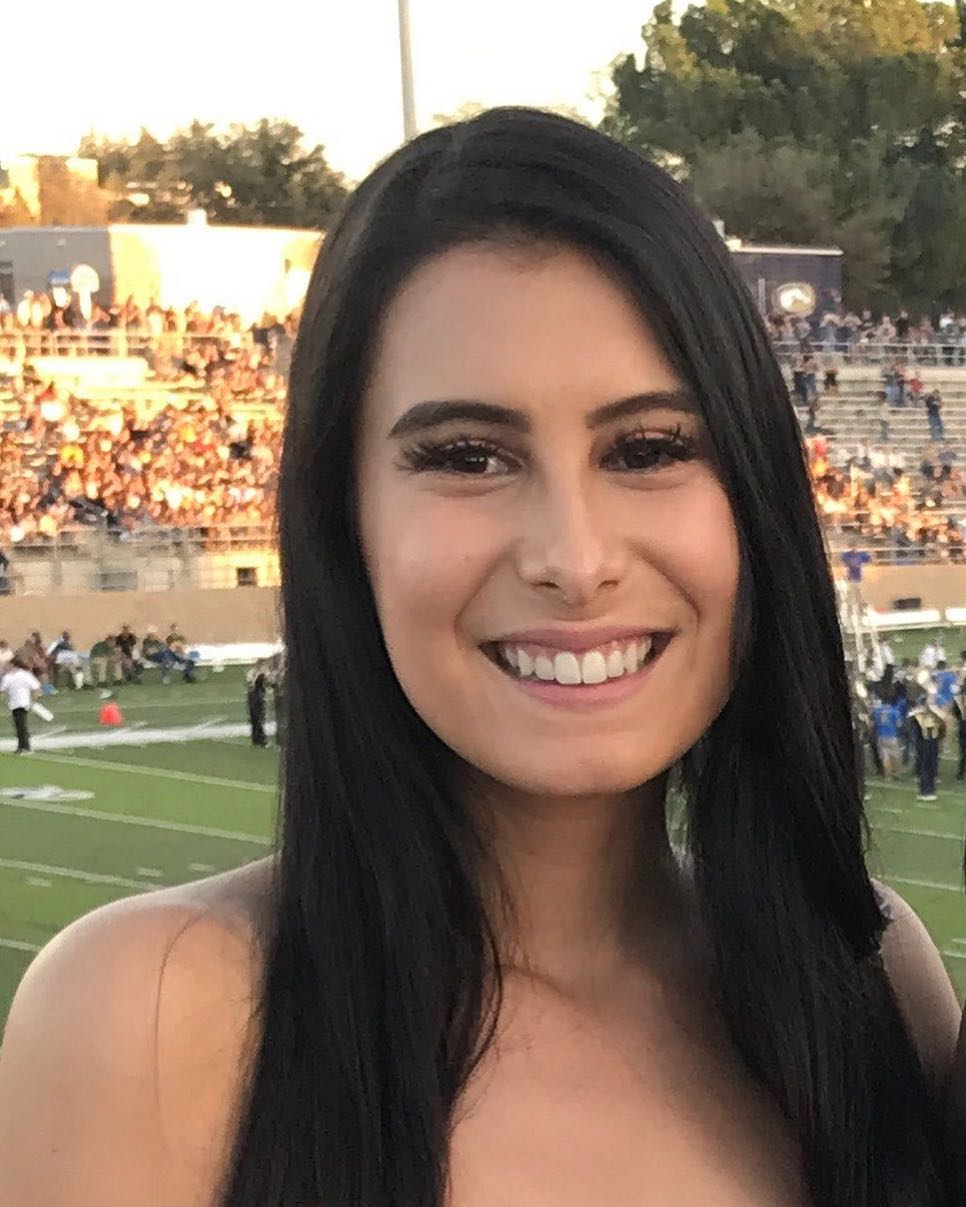
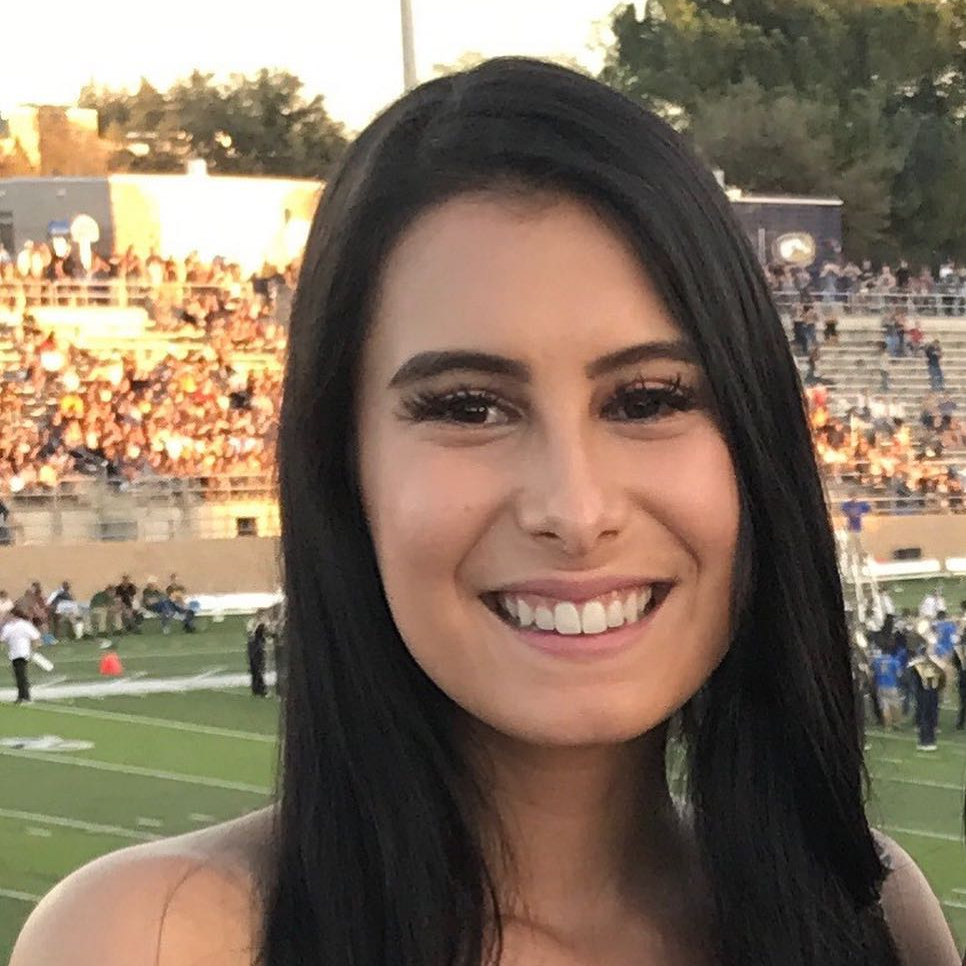
Updated Membership page

diff --git a/membership.html b/membership.html
@@ -22,9 +22,9 @@
         <a href="events.html">EVENTS</a>
     </div>
     
-    <div id="imageback">
+    <div id="imageback2">
     
-        <div id="home">
+        <div id="home2">
             
             <div id="navbar2">
                 <div id="frontTitle2">
@@ -82,7 +82,7 @@
                 </div>
                 
                 <div class="member">
-                    <div class="memberimgbox">
+                    <div class="memberimgbox"><img src="images/board/image_from_ios-1.jpg">
                     </div>
                     <div class="memberinfo">
                         <p class="boardName">Shraddha Agrawal</p>
@@ -114,7 +114,7 @@
                     <div class="memberinfo">
                         <p class="boardName">Rutuja Oza</p>
                         <p>Events Committee</p>
-                        <a href="https://www.linkedin.com/in/rutuja-oza-668850162/"><p>Connect on LinkedIn</p></a>
+                        <a href="https://www.linkedin.com/in/rutuja-oza-668850162/"><p>LinkedIn</p></a>
                     </div>
                 </div>
                 
@@ -151,7 +151,7 @@
                     <div class="memberinfo">
                         <p class="boardName">Ynna Lecitona</p>
                         <p>Marketing Director</p>
-                        <a href="https://www.linkedin.com/in/ynna-lecitona-a288b1170/"><p>Connect on LinkedIn</p></a>
+                        <a href="https://www.linkedin.com/in/ynna-lecitona-a288b1170/"><p>LinkedIn</p></a>
                     </div>
                 </div>
                 
@@ -170,7 +170,7 @@
                     <div class="memberinfo">
                         <p class="boardName">Oorjit Chib</p>
                         <p>Director of Membership</p>
-                        <a href="https://www.linkedin.com/in/oorjit-chib-b779b5161/"><p>Connect on LinkedIn</p></a>
+                        <a href="https://www.linkedin.com/in/oorjit-chib-b779b5161/"><p>LinkedIn</p></a>
                     </div>
                 </div>            
                
@@ -191,7 +191,7 @@
                     <div class="memberinfo">
                         <p class="boardName">Rachel Hanna</p>
                         <p>Webmaster</p>
-                        <a href="https://www.linkedin.com/in/rachel-joy-hanna/"><p>Connect on LinkedIn</p></a>
+                        <a href="https://www.linkedin.com/in/rachel-joy-hanna/"><p>LinkedIn</p></a>
                     </div>
                 </div>
                 

diff --git a/CSS/style.css b/CSS/style.css
@@ -19,7 +19,8 @@ h1, p, a {
 }
 
 .iconsBox, .memberimgbox{
-    flex: 1 1 20%;
+    flex: 1 0 40%;
+    max-width: 40%;
     margin: 5px;
 }
 
@@ -85,6 +86,14 @@ top {
     align-items: center;
     flex: 1 0 auto;
 }
+
+#imageback2 {
+    background-color: #e2d1d0;
+    width: 100%;
+    display: flex;
+    flex-direction: column;
+    align-items: center;
+    flex: 1 0 auto;}
 
 #home {
     background-color: rgb(255,255,255,.8);
@@ -231,6 +240,14 @@ top {
 /*    background-color: rgb(0,0,0,.5);*/
 }
 
+.member:hover {
+    background-color: #e6f2ff;
+}
+
+.member {
+    border: 1px solid grey;
+}
+
 #navbar2 {
     display: none;
 }
@@ -243,8 +260,16 @@ top {
     display: block;
 }
 
+#home #board p {
+    padding-bottom: 0px;
+    margin-bottom: 0px;
+    color: grey;
+    text-align: left;
+}
 
-
+#home #board .boardName {
+    color: black
+}
 
 @media screen and (min-width: 600px) {
     #frontTitle, #frontTitle2, #frontTitle3 {
